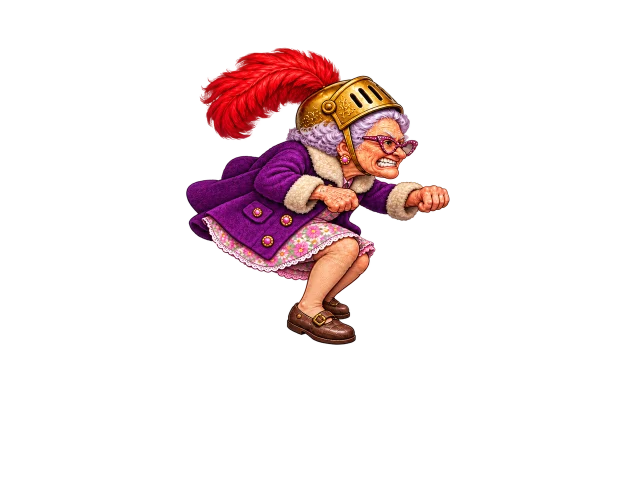
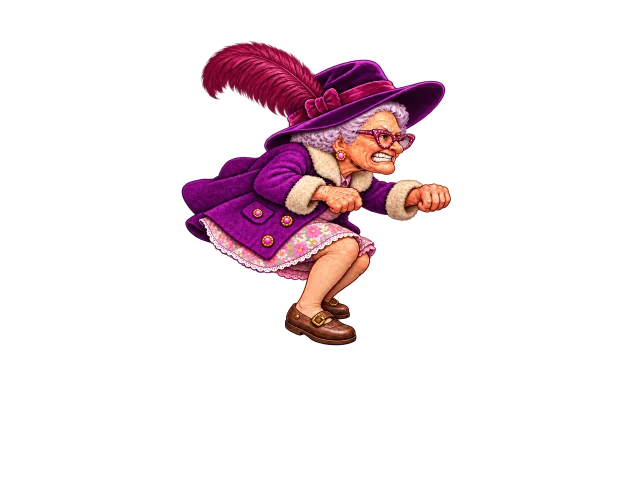
All 17 grannies in layers: every rival and player look swaps lance and saddle; Sunday in a purple hat, Plume in a silver helmet

Changed region(s): [[0.2736, 0.06, 0.7296, 0.69], [0.5776, 0.48, 0.608, 0.54]]

diff --git a/src/components/artRigs.js b/src/components/artRigs.js
@@ -2,6 +2,6 @@
    per pose, where her fist closes, where the rooster's back takes the saddle, and the top of her head; for the flat
    pictures, the top of her head only. All as shares of the 1250×1000 canvas. */
 
-export var RIGS = {"player-floral":{"name":"floral","poses":{"idle":{"fist":[0.63,0.332],"seat":[0.458,0.504],"head":[0.488,0.026]},"charge":{"fist":[0.733,0.348],"seat":[0.478,0.536],"head":[0.553,0.096]},"deflect":{"fist":[0.661,0.326],"seat":[0.52,0.508],"head":[0.451,0.014]},"knocked":{"fist":[0.675,0.478],"seat":[0.603,0.534],"head":[0.287,0.084]},"fallen":{"fist":[0.658,0.664],"seat":[0.73,0.392],"head":[0.129,0.342]},"cheer":{"fist":[0.642,0.35],"seat":[0.52,0.518],"head":[0.445,0.102]}}},"player":{"name":"player","poses":{"idle":{"fist":[0.63,0.332],"seat":[0.52,0.462],"head":[0.511,0.012]},"charge":{"fist":[0.718,0.354],"seat":[0.478,0.524],"head":[0.605,0.096]},"deflect":{"fist":[0.661,0.346],"seat":[0.562,0.43],"head":[0.453,0.074]},"knocked":{"fist":[0.765,0.512],"seat":[0.562,0.508],"head":[0.302,0.092]},"fallen":{"fist":[0.658,0.652],"seat":[0.724,0.416],"head":[0.381,0.384]},"cheer":{"fist":[0.661,0.368],"seat":[0.499,0.54],"head":[0.429,0.1]}}},"player-kitchen":{"name":"player-kitchen","poses":{"idle":{"fist":[0.63,0.328],"seat":[0.458,0.502],"head":[0.497,0.016]},"charge":{"fist":[0.712,0.36],"seat":[0.499,0.52],"head":[0.609,0.096]},"deflect":{"fist":[0.661,0.366],"seat":[0.562,0.514],"head":[0.433,0.108]},"knocked":{"fist":[0.662,0.506],"seat":[0.541,0.55],"head":[0.297,0.064]},"fallen":{"fist":[0.658,0.704],"seat":[0.749,0.44],"head":[0.129,0.412]}}},"player-night":{"name":"player-night","poses":{"idle":{"fist":[0.624,0.318],"seat":[0.499,0.498],"head":[0.473,0.01]},"charge":{"fist":[0.725,0.362],"seat":[0.478,0.528],"head":[0.585,0.096]},"knocked":{"fist":[0.682,0.408],"seat":[0.582,0.514],"head":[0.321,0.148]},"fallen":{"fist":[0.541,0.742],"seat":[0.716,0.434],"head":[0.198,0.53]},"cheer":{"fist":[0.656,0.362],"seat":[0.52,0.532],"head":[0.468,0.1]}}},"player-sport":{"name":"player-sport","poses":{"idle":{"fist":[0.624,0.32],"seat":[0.458,0.504],"head":[0.416,0.012]},"charge":{"fist":[0.686,0.372],"seat":[0.499,0.538],"head":[0.487,0.096]},"deflect":{"fist":[0.661,0.342],"seat":[0.52,0.464],"head":[0.413,0.098]},"knocked":{"fist":[0.685,0.528],"seat":[0.582,0.498],"head":[0.304,0.136]},"fallen":{"fist":[0.658,0.688],"seat":[0.705,0.394],"head":[0.528,0.508]},"cheer":{"fist":[0.658,0.352],"seat":[0.499,0.52],"head":[0.427,0.102]}}},"player-sunday":{"name":"player-sunday","poses":{"idle":{"fist":[0.63,0.38],"seat":[0.478,0.48],"head":[0.404,0.062]},"charge":{"fist":[0.717,0.39],"seat":[0.478,0.534],"head":[0.454,0.096]},"deflect":{"fist":[0.661,0.402],"seat":[0.582,0.464],"head":[0.419,0.142]},"knocked":{"fist":[0.706,0.462],"seat":[0.582,0.522],"head":[0.337,0.07]},"fallen":{"fist":[0.608,0.65],"seat":[0.72,0.372],"head":[0.142,0.372]},"cheer":{"fist":[0.677,0.366],"seat":[0.541,0.498],"head":[0.414,0.1]}}},"player-tweed":{"name":"player-tweed","poses":{"idle":{"fist":[0.63,0.344],"seat":[0.582,0.494],"head":[0.389,0.018]},"charge":{"fist":[0.712,0.38],"seat":[0.478,0.532],"head":[0.459,0.096]},"deflect":{"fist":[0.661,0.49],"seat":[0.603,0.486],"head":[0.418,0.152]},"knocked":{"fist":[0.683,0.534],"seat":[0.603,0.52],"head":[0.347,0.16]},"fallen":{"fist":[0.574,0.66],"seat":[0.705,0.412],"head":[0.124,0.508]},"cheer":{"fist":[0.682,0.376],"seat":[0.52,0.566],"head":[0.417,0.114]}}}};
+export var RIGS = {"player-floral":{"name":"floral","poses":{"idle":{"fist":[0.63,0.332],"seat":[0.458,0.504],"head":[0.488,0.026]},"charge":{"fist":[0.733,0.348],"seat":[0.478,0.536],"head":[0.553,0.096]},"deflect":{"fist":[0.661,0.326],"seat":[0.52,0.508],"head":[0.451,0.014]},"knocked":{"fist":[0.675,0.478],"seat":[0.603,0.534],"head":[0.287,0.084]},"fallen":{"fist":[0.658,0.664],"seat":[0.73,0.392],"head":[0.129,0.342]},"cheer":{"fist":[0.642,0.35],"seat":[0.52,0.518],"head":[0.445,0.102]}}},"player":{"name":"player","poses":{"idle":{"fist":[0.63,0.332],"seat":[0.52,0.462],"head":[0.511,0.012]},"charge":{"fist":[0.718,0.354],"seat":[0.478,0.524],"head":[0.605,0.096]},"deflect":{"fist":[0.661,0.346],"seat":[0.562,0.43],"head":[0.453,0.074]},"knocked":{"fist":[0.765,0.512],"seat":[0.562,0.508],"head":[0.302,0.092]},"fallen":{"fist":[0.658,0.652],"seat":[0.724,0.416],"head":[0.381,0.384]},"cheer":{"fist":[0.661,0.368],"seat":[0.499,0.54],"head":[0.429,0.1]}}},"player-kitchen":{"name":"player-kitchen","poses":{"idle":{"fist":[0.63,0.328],"seat":[0.458,0.502],"head":[0.497,0.016]},"charge":{"fist":[0.712,0.36],"seat":[0.499,0.52],"head":[0.609,0.096]},"deflect":{"fist":[0.661,0.366],"seat":[0.562,0.514],"head":[0.433,0.108]},"knocked":{"fist":[0.662,0.506],"seat":[0.541,0.55],"head":[0.297,0.064]},"fallen":{"fist":[0.658,0.704],"seat":[0.749,0.44],"head":[0.129,0.412]},"cheer":{"fist":[0.674,0.374],"seat":[0.499,0.558],"head":[0.455,0.1]}}},"player-night":{"name":"player-night","poses":{"idle":{"fist":[0.624,0.318],"seat":[0.499,0.498],"head":[0.473,0.01]},"charge":{"fist":[0.725,0.362],"seat":[0.478,0.528],"head":[0.585,0.096]},"deflect":{"fist":[0.654,0.318],"seat":[0.52,0.506],"head":[0.447,0.014]},"knocked":{"fist":[0.682,0.408],"seat":[0.582,0.514],"head":[0.321,0.148]},"fallen":{"fist":[0.541,0.742],"seat":[0.716,0.434],"head":[0.198,0.53]},"cheer":{"fist":[0.656,0.362],"seat":[0.52,0.532],"head":[0.468,0.1]}}},"player-sport":{"name":"player-sport","poses":{"idle":{"fist":[0.624,0.32],"seat":[0.458,0.504],"head":[0.416,0.012]},"charge":{"fist":[0.686,0.372],"seat":[0.499,0.538],"head":[0.487,0.096]},"deflect":{"fist":[0.661,0.342],"seat":[0.52,0.464],"head":[0.413,0.098]},"knocked":{"fist":[0.685,0.528],"seat":[0.582,0.498],"head":[0.304,0.136]},"fallen":{"fist":[0.658,0.688],"seat":[0.705,0.394],"head":[0.528,0.508]},"cheer":{"fist":[0.658,0.352],"seat":[0.499,0.52],"head":[0.427,0.102]}}},"player-sunday":{"name":"player-sunday","poses":{"idle":{"fist":[0.63,0.372],"seat":[0.478,0.48],"head":[0.363,0.044]},"charge":{"fist":[0.72,0.394],"seat":[0.478,0.534],"head":[0.405,0.084]},"deflect":{"fist":[0.662,0.402],"seat":[0.582,0.464],"head":[0.425,0.134]},"knocked":{"fist":[0.706,0.462],"seat":[0.582,0.522],"head":[0.34,0.07]},"fallen":{"fist":[0.61,0.648],"seat":[0.72,0.372],"head":[0.106,0.268]},"cheer":{"fist":[0.678,0.368],"seat":[0.541,0.498],"head":[0.382,0.076]}}},"player-tweed":{"name":"player-tweed","poses":{"idle":{"fist":[0.63,0.344],"seat":[0.582,0.494],"head":[0.389,0.018]},"charge":{"fist":[0.712,0.38],"seat":[0.478,0.532],"head":[0.459,0.096]},"deflect":{"fist":[0.661,0.49],"seat":[0.603,0.486],"head":[0.418,0.152]},"knocked":{"fist":[0.683,0.534],"seat":[0.603,0.52],"head":[0.347,0.16]},"fallen":{"fist":[0.574,0.66],"seat":[0.705,0.412],"head":[0.124,0.508]},"cheer":{"fist":[0.682,0.376],"seat":[0.52,0.566],"head":[0.417,0.114]}}},"rival-bingo":{"name":"rival-bingo","poses":{"idle":{"fist":[0.63,0.312],"seat":[0.458,0.526],"head":[0.441,0.014]},"charge":{"fist":[0.691,0.344],"seat":[0.458,0.538],"head":[0.499,0.076]},"deflect":{"fist":[0.659,0.44],"seat":[0.52,0.542],"head":[0.38,0.008]},"knocked":{"fist":[0.73,0.396],"seat":[0.603,0.602],"head":[0.254,0.008]},"fallen":{"fist":[0.65,0.764],"seat":[0.751,0.402],"head":[0.206,0.43]},"cheer":{"fist":[0.661,0.442],"seat":[0.582,0.596],"head":[0.451,0.188]}}},"rival-colander":{"name":"rival-colander","poses":{"idle":{"fist":[0.629,0.316],"seat":[0.478,0.538],"head":[0.488,0.014]},"charge":{"fist":[0.666,0.374],"seat":[0.478,0.546],"head":[0.542,0.13]},"deflect":{"fist":[0.642,0.448],"seat":[0.541,0.542],"head":[0.422,0.01]},"knocked":{"fist":[0.659,0.384],"seat":[0.541,0.552],"head":[0.303,0.01]},"fallen":{"fist":[0.654,0.656],"seat":[0.734,0.392],"head":[0.223,0.434]},"cheer":{"fist":[0.611,0.384],"seat":[0.458,0.594],"head":[0.433,0.134]}}},"rival-duchess":{"name":"rival-duchess","poses":{"idle":{"fist":[0.642,0.336],"seat":[0.478,0.56],"head":[0.373,0]},"charge":{"fist":[0.718,0.372],"seat":[0.52,0.528],"head":[0.422,0.02]},"deflect":{"fist":[0.666,0.328],"seat":[0.541,0.552],"head":[0.355,0.012]},"knocked":{"fist":[0.778,0.452],"seat":[0.582,0.586],"head":[0.319,0.012]},"fallen":{"fist":[0.694,0.638],"seat":[0.744,0.32],"head":[0.235,0.432]},"cheer":{"fist":[0.659,0.376],"seat":[0.499,0.564],"head":[0.352,0.072]}}},"rival-feather":{"name":"rival-feather","poses":{"idle":{"fist":[0.634,0.328],"seat":[0.478,0.554],"head":[0.39,0.008]},"charge":{"fist":[0.669,0.332],"seat":[0.416,0.534],"head":[0.362,0.044]},"deflect":{"fist":[0.682,0.304],"seat":[0.562,0.55],"head":[0.401,0.018]},"knocked":{"fist":[0.669,0.458],"seat":[0.582,0.586],"head":[0.203,0.012]},"fallen":{"fist":[0.832,0.73],"seat":[0.718,0.334],"head":[0.122,0.534]},"cheer":{"fist":[0.65,0.37],"seat":[0.499,0.588],"head":[0.359,0.086]}}},"rival-plume":{"name":"rival-plume","poses":{"idle":{"fist":[0.642,0.352],"seat":[0.458,0.56],"head":[0.382,0.01]},"charge":{"fist":[0.667,0.354],"seat":[0.458,0.566],"head":[0.435,0.026]},"deflect":{"fist":[0.688,0.36],"seat":[0.541,0.584],"head":[0.338,0.022]},"knocked":{"fist":[0.664,0.436],"seat":[0.603,0.58],"head":[0.206,0.01]},"fallen":{"fist":[0.773,0.67],"seat":[0.741,0.394],"head":[0.295,0.434]},"cheer":{"fist":[0.634,0.368],"seat":[0.499,0.582],"head":[0.351,0.108]}}},"rival-pompom":{"name":"rival-pompom","poses":{"idle":{"fist":[0.632,0.312],"seat":[0.478,0.546],"head":[0.418,0]},"charge":{"fist":[0.712,0.342],"seat":[0.478,0.562],"head":[0.502,0.02]},"deflect":{"fist":[0.659,0.31],"seat":[0.541,0.536],"head":[0.354,0.006]},"knocked":{"fist":[0.64,0.486],"seat":[0.562,0.566],"head":[0.213,0.008]},"fallen":{"fist":[0.722,0.712],"seat":[0.734,0.372],"head":[0.223,0.508]},"cheer":{"fist":[0.646,0.36],"seat":[0.499,0.552],"head":[0.398,0.08]}}},"rival-pot":{"name":"rival-pot","poses":{"idle":{"fist":[0.618,0.314],"seat":[0.458,0.554],"head":[0.492,0.026]},"charge":{"fist":[0.696,0.334],"seat":[0.458,0.54],"head":[0.544,0.084]},"deflect":{"fist":[0.654,0.444],"seat":[0.541,0.546],"head":[0.392,0.03]},"knocked":{"fist":[0.722,0.422],"seat":[0.541,0.6],"head":[0.303,0.004]},"fallen":{"fist":[0.686,0.65],"seat":[0.751,0.382],"head":[0.225,0.432]},"cheer":{"fist":[0.635,0.36],"seat":[0.478,0.574],"head":[0.45,0.104]}}},"rival-rose":{"name":"rival-rose","poses":{"idle":{"fist":[0.626,0.312],"seat":[0.478,0.566],"head":[0.507,0.014]},"charge":{"fist":[0.702,0.356],"seat":[0.458,0.548],"head":[0.571,0.084]},"deflect":{"fist":[0.65,0.312],"seat":[0.52,0.538],"head":[0.426,0.004]},"knocked":{"fist":[0.739,0.338],"seat":[0.562,0.556],"head":[0.237,0.012]},"fallen":{"fist":[0.682,0.656],"seat":[0.739,0.334],"head":[0.202,0.412]},"cheer":{"fist":[0.635,0.374],"seat":[0.478,0.548],"head":[0.476,0.106]}}},"rival-shawl":{"name":"rival-shawl","poses":{"idle":{"fist":[0.638,0.314],"seat":[0.478,0.542],"head":[0.489,0.004]},"charge":{"fist":[0.693,0.21],"seat":[0.499,0.548],"head":[0.554,0.06]},"deflect":{"fist":[0.688,0.318],"seat":[0.499,0.512],"head":[0.505,0.008]},"knocked":{"fist":[0.658,0.326],"seat":[0.562,0.57],"head":[0.329,0.01]},"fallen":{"fist":[0.608,0.692],"seat":[0.726,0.376],"head":[0.398,0.452]},"cheer":{"fist":[0.602,0.426],"seat":[0.458,0.59],"head":[0.415,0.166]}}},"rival-teatime":{"name":"rival-teatime","poses":{"idle":{"fist":[0.635,0.308],"seat":[0.458,0.548],"head":[0.51,0.006]},"charge":{"fist":[0.699,0.33],"seat":[0.478,0.53],"head":[0.585,0.066]},"deflect":{"fist":[0.643,0.406],"seat":[0.52,0.528],"head":[0.414,0.012]},"knocked":{"fist":[0.666,0.432],"seat":[0.541,0.548],"head":[0.292,0.024]},"fallen":{"fist":[0.656,0.718],"seat":[0.687,0.38],"head":[0.182,0.48]},"cheer":{"fist":[0.646,0.348],"seat":[0.541,0.562],"head":[0.469,0.1]}}}};
 
 export var HEADS = {"player":{"charge":[0.576,0.048],"cheer":[0.909,0.006],"deflect":[0.403,0.01],"fallen":[0.929,0.058],"knocked":[0.316,0.004],"idle":[0.513,0.01]},"player-floral":{"charge":[0.552,0.094],"cheer":[0.903,0.008],"deflect":[0.45,0.014],"fallen":[0.668,0.104],"knocked":[0.283,0.004],"idle":[0.496,0.01]},"player-kitchen":{"charge":[0.574,0.106],"cheer":[0.932,0.008],"deflect":[0.393,0.01],"fallen":[0.921,0.156],"knocked":[0.293,0.01],"idle":[0.508,0.006]},"player-night":{"charge":[0.545,0.092],"cheer":[0.925,0.01],"deflect":[0.459,0.006],"fallen":[0.89,0.132],"knocked":[0.236,0.004],"idle":[0.495,0]},"player-sport":{"charge":[0.483,0.048],"cheer":[0.918,0.006],"deflect":[0.405,0.028],"fallen":[0.912,0.136],"knocked":[0.275,0.02],"idle":[0.454,0.014]},"player-sunday":{"charge":[0.402,0.088],"cheer":[0.927,0.008],"deflect":[0.4,0.018],"fallen":[0.945,0.13],"knocked":[0.358,0.01],"idle":[0.414,0.01]},"player-tweed":{"charge":[0.426,0.052],"cheer":[0.917,0.012],"deflect":[0.375,0.016],"fallen":[0.887,0.148],"knocked":[0.245,0.008],"idle":[0.393,0.008]},"rival-bingo":{"charge":[0.516,0.08],"cheer":[0.918,0.012],"deflect":[0.395,0.008],"fallen":[0.943,0.144],"knocked":[0.261,0.008],"idle":[0.464,0.016]},"rival-colander":{"charge":[0.537,0.128],"cheer":[0.922,0.012],"deflect":[0.418,0.01],"fallen":[0.931,0.13],"knocked":[0.297,0.012],"idle":[0.483,0.014]},"rival-duchess":{"charge":[0.421,0.022],"cheer":[0.926,0.012],"deflect":[0.372,0.01],"fallen":[0.917,0.04],"knocked":[0.31,0.008],"idle":[0.398,0.004]},"rival-feather":{"charge":[0.379,0.044],"cheer":[0.921,0.008],"deflect":[0.423,0.02],"fallen":[0.846,0.102],"knocked":[0.208,0.014],"idle":[0.395,0.006]},"rival-plume":{"charge":[0.436,0.02],"cheer":[0.929,0.008],"deflect":[0.339,0.022],"fallen":[0.945,0.084],"knocked":[0.224,0.014],"idle":[0.386,0.008]},"rival-pompom":{"charge":[0.503,0.02],"cheer":[0.929,0.006],"deflect":[0.382,0.008],"fallen":[0.915,0.084],"knocked":[0.215,0.008],"idle":[0.449,0.008]},"rival-pot":{"charge":[0.528,0.08],"cheer":[0.925,0.012],"deflect":[0.394,0.026],"fallen":[0.897,0.152],"knocked":[0.305,0.006],"idle":[0.485,0.024]},"rival-rose":{"charge":[0.567,0.084],"cheer":[0.912,0.01],"deflect":[0.418,0.006],"fallen":[0.891,0.102],"knocked":[0.236,0.012],"idle":[0.504,0.014]},"rival-shawl":{"charge":[0.553,0.062],"cheer":[0.915,0.004],"deflect":[0.509,0.008],"fallen":[0.89,0.138],"knocked":[0.322,0.01],"idle":[0.486,0.006]},"rival-teatime":{"charge":[0.579,0.066],"cheer":[0.925,0.006],"deflect":[0.417,0.014],"fallen":[0.739,0.122],"knocked":[0.268,0.002],"idle":[0.504,0.01]}};
